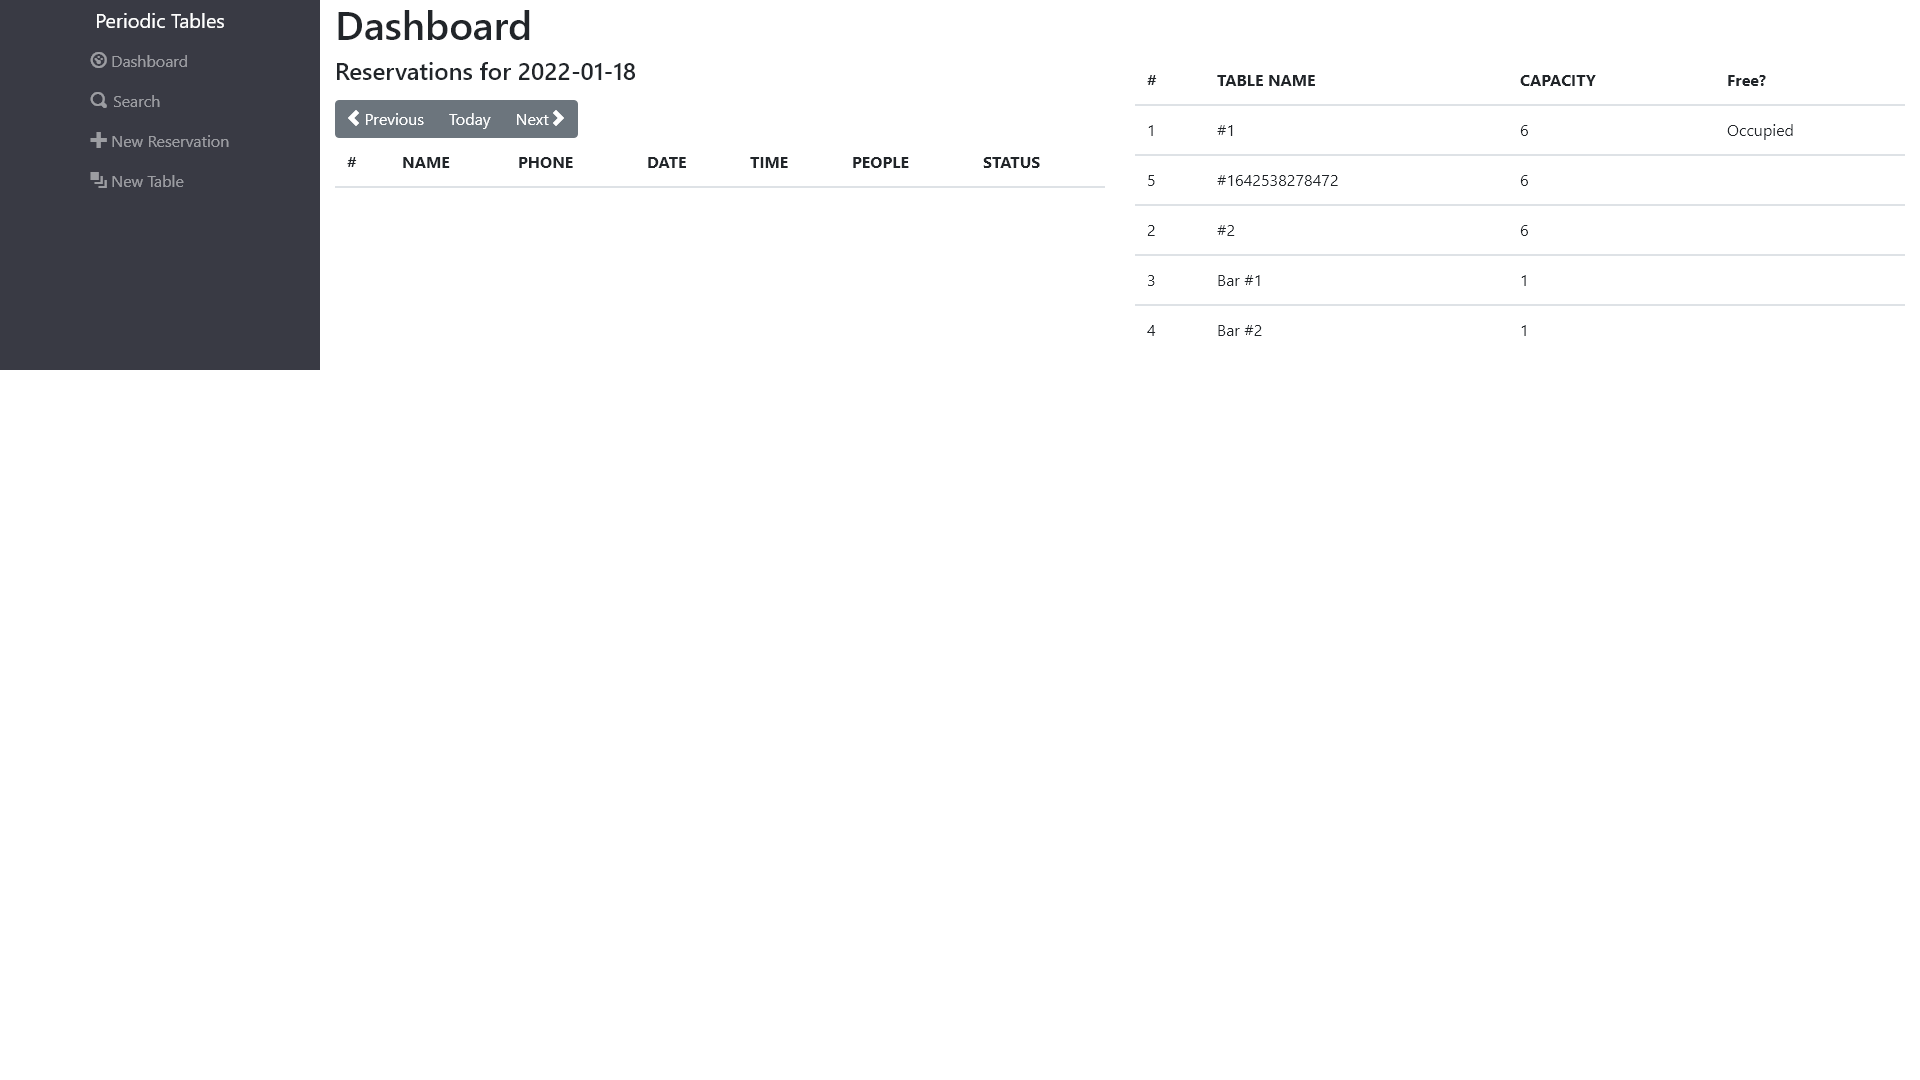
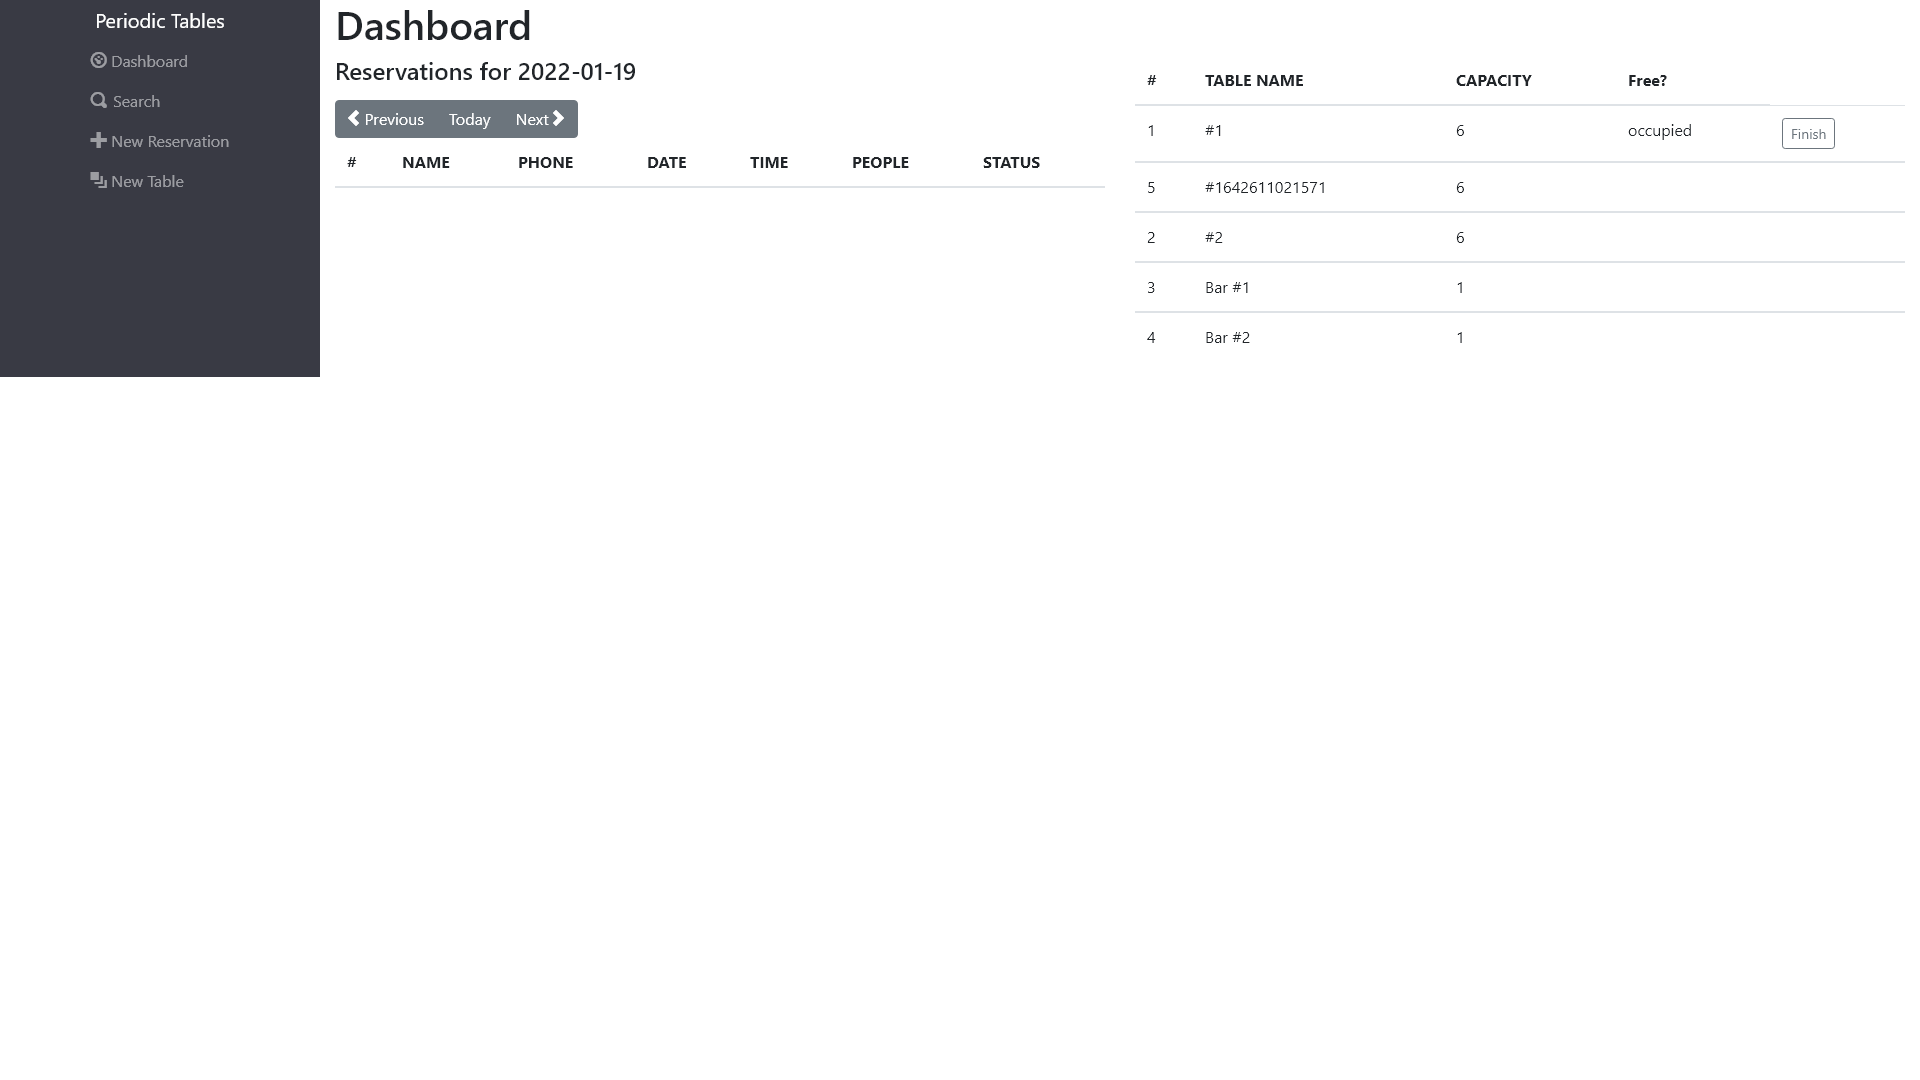
Finish button

diff --git a/front-end/src/dashboard/ReservationsList.js b/front-end/src/dashboard/ReservationsList.js
@@ -4,22 +4,27 @@ import React from "react";
 function ReservationsList({ reservation }) {
     let reservation_id = reservation.reservation_id;
     return (
-        <tbody>
-            <tr>
-                <td>{reservation_id}</td>
-                <td>{reservation.first_name}</td>
-                <td>{reservation.last_name}</td>
-                <td>{reservation.reservation_date}</td>
-                <td>{reservation.reservation_date}</td>
-                <td>{reservation.people}</td>
-                <td data-reservation-id-status="9">{reservation.status}</td>
-                <td><a className="btn btn-secondary" href={`/reservations/${reservation_id}/seat`}>Seat</a></td>
-                <td><a className="btn btn-secondary" href={`/reservations/${reservation_id}/edit`}>Edit</a></td><td>
-                    <button type="button" className="btn btn-secondary mr-2 cancel" data-reservation-id-cancel={reservation_id}>Cancel</button>
-                </td>
-            </tr>
-        </tbody>
-
+        <>
+            {reservation.status === 'finished' ? null :
+                (
+                    <tbody>
+                        <tr>
+                            <td>{reservation_id}</td>
+                            <td>{reservation.first_name}</td>
+                            <td>{reservation.last_name}</td>
+                            <td>{reservation.reservation_date}</td>
+                            <td>{reservation.reservation_date}</td>
+                            <td>{reservation.people}</td>
+                            <td data-reservation-id-status={reservation.id}>{reservation.status == null ? 'booked' : reservation.status}</td>
+                            {reservation.status === 'seated' ? ' ' : <td><a className="btn btn-secondary" href={`/reservations/${reservation_id}/seat`}>Seat</a></td>}
+                            <td><a className="btn btn-secondary" href={`/reservations/${reservation_id}/edit`}>Edit</a></td><td>
+                                <button type="button" className="btn btn-secondary mr-2 cancel" data-reservation-id-cancel={reservation_id}>Cancel</button>
+                            </td>
+                        </tr>
+                    </tbody>
+                )
+            }
+        </>
     )
 }
 

diff --git a/front-end/src/dashboard/TableList.js b/front-end/src/dashboard/TableList.js
@@ -1,18 +1,49 @@
+import React from "react";
+import { useHistory } from "react-router-dom";
+// import FinishBtn from './FinishBtn';
+import { clearSeat, listTables } from "../utils/api";
 
+export default function TablesList({ table, loadDashboard }) {
+  const history = useHistory();
+  let tableId = table.table_id;
 
-export default function TablesList({ table }) {
-   
-    return (
-        <tbody>
-            <tr>
-            <td>{table.table_id}</td>
-                <td>{table.table_name}</td>
-                <td>{table.capacity}</td>
-                <td data-table-id-status="3">{table.status}</td>
-                
-            </tr>
-        </tbody>
-    )
+  async function finishAlert() {
+      console.log("HELLO")
+    if (
+      window.confirm(
+        "Is this table ready to seat new guests?" 
+      )
+    ) {
+        console.log("ABC")
+      await clearSeat(table.table_id)
+      await loadDashboard()
+      console.log("CLICK")
+    //   history.push("/");
+    }
+  }
+
+  let btn = (
+    <button
+      type="button"
+      onClick={finishAlert}
+      className="btn btn-sm btn-outline-secondary"
+      data-table-id-finish={`${table.table_id}`}
+    >
+      Finish
+    </button>
+  );
+
+  return (
+    <tbody>
+      <tr>
+        <td>{table.table_id}</td>
+        <td>{table.table_name}</td>
+        <td>{table.capacity}</td>
+        <td data-table-id-status={`${table.table_id}`}>
+          {table.reservation_id ? "occupied" : "free"}
+        </td>
+        <td> {table.reservation_id ? btn : null} </td>
+      </tr>
+    </tbody>
+  );
 }
-
-

diff --git a/back-end/src/tables/tables.controller.js b/back-end/src/tables/tables.controller.js
@@ -108,6 +108,26 @@ async function checkCapacity(req, res, next) {
   next()
 }
 
+async function checkIfOccupied(req, res, next) {
+  const { status } = res.locals.table;
+  if(status !== 'occupied') {
+    return next({ status: 400, message: `table not occupied`})
+  }
+ next()
+}
+
+
+async function resIsSeated(req, res, next) {
+  const { reservation_id } = req.body.data;
+
+  const reservation = await readRes(reservation_id);
+  if (reservation.status === 'seated') {
+    return next({ status: 400, message: `${reservation_id} already seated.` });
+    
+  }
+  next();
+}
+
 
 async function read(req, res) {
   res.json({ data: res.locals.table })
@@ -137,6 +157,16 @@ async function update(req, res) {
 }
 
 
+async function destroy(req, res) {
+ const { table_id } = res.locals.table;
+ const { reservation_id } = res.locals.table;
+
+  await service.delete({table_id, reservation_id});
+  const data = await service.list();
+  res.json({ data })
+}
+
+
 
 module.exports = {
   list: list,
@@ -154,13 +184,20 @@ module.exports = {
 
   update: [
     hasResId,
-    // hasRequiredProperties,
-    // validateBody,
     asyncErrorBoundary(tableExists),
     asyncErrorBoundary(reservationExists),
     checkAvailability,
+    resIsSeated,
     checkCapacity,
     asyncErrorBoundary(update)
+  ],
+
+  delete: [
+    // hasResId,
+    asyncErrorBoundary(tableExists),
+    checkIfOccupied,
+    // asyncErrorBoundary(reservationExists),
+    destroy
   ]
 
 

diff --git a/back-end/src/tables/tables.service.js b/back-end/src/tables/tables.service.js
@@ -26,11 +26,11 @@ function update({ table_id, reservation_id }) {
       return knex('reservations')
         .transacting(trx)
         .where({ reservation_id: reservation_id })
+        .update({ status: 'seated' })
         .then(() => {
           return knex('tables')
             .where({ table_id: table_id })
             .update({ reservation_id: reservation_id })
-            .update({ status: 'Occupied' })
             .returning('*');
         })
         .then(trx.commit)
@@ -38,9 +38,28 @@ function update({ table_id, reservation_id }) {
     });
   }
 
+  function destroy({ table_id, reservation_id }) {
+    return knex.transaction((trx) => {
+      return knex('reservations')
+        .transacting(trx)
+        .where({ reservation_id: reservation_id })
+        .update({ status: 'finished'})
+        .then(() => {
+          return knex('tables')
+            .where({ table_id: table_id })
+            .update({ reservation_id: null })
+            .returning('*');
+        })
+        .then(trx.commit)
+        .catch(trx.rollback);
+    });
+ }
+ 
+
 module.exports = {
     list,
     read,
     create,
-    update
+    update,
+    delete: destroy,
 }

diff --git a/front-end/e2e/us-05-finish-occupied-table.test.js b/front-end/e2e/us-05-finish-occupied-table.test.js
@@ -61,29 +61,29 @@ describe("US-05 - Finish an occupied table - E2E", () => {
         path: ".screenshots/us-05-dashboard-finish-button-before.png",
         fullPage: true,
       });
-
+      console.log(64);
       const containsOccupied = await containsText(
         page,
         `[data-table-id-status="${table.table_id}"]`,
         "occupied"
       );
-
+      console.log(70);
       expect(containsOccupied).toBe(true);
 
       const finishButtonSelector = `[data-table-id-finish="${table.table_id}"]`;
       await page.waitForSelector(finishButtonSelector);
-
+      console.log(75);
       page.on("dialog", async (dialog) => {
         expect(dialog.message()).toContain(
           "Is this table ready to seat new guests?"
         );
         await dialog.accept();
       });
-
+      console.log(82);
       await page.click(finishButtonSelector);
-
+      console.log(84);
       await page.waitForResponse((response) => {
-        return response.url().endsWith(`/tables`);
+        // return response.url().endsWith(`/tables`);
       });
 
       await page.screenshot({

diff --git a/back-end/src/reservations/reservations.controller.js b/back-end/src/reservations/reservations.controller.js
@@ -118,6 +118,17 @@ async function reservationExists(req, res, next) {
 }
 
 
+async function status(req, res, next){
+  const { reservation_id } = req.params;
+
+  const reservation = await service.read(reservation_id);
+  if  (reservation.status === 'unknown') {
+    return next({ status: 400, message: `${reservation_id} ` });
+  }
+  next();
+
+}
+
 async function read(req, res) {
 res.json({ data: res.locals.reservation })
 }  
@@ -126,7 +137,6 @@ async function list(req, res) {
   let date = req.query.date;
   data = await service.list(date);
   res.json({ data });
-  console.log(data);
 }
 
 async function create(req, res) {
@@ -148,6 +158,9 @@ module.exports = {
   read: [
    reservationExists,
     read
-  ]
+  ],
+  update: [
+    status,
+  ] 
 
 };

diff --git a/front-end/src/utils/api.js b/front-end/src/utils/api.js
@@ -122,5 +122,18 @@ export async function seatReservation(table_id, reservation_id) {
   return await fetchJson(url, options);
 }
 
+export async function clearSeat(table_id, signal) {
+  const url = `${API_BASE_URL}/tables/${table_id}/seat`;
+  const options = {
+    method: "DELETE",
+    headers,
+    body: JSON.stringify({ data: { table_id } }),
+    signal
+  };
+  return await fetchJson(url, options);
+}
+
+
+
 
 

diff --git a/back-end/src/db/migrations/20220116122925_Tables.js b/back-end/src/db/migrations/20220116122925_Tables.js
@@ -4,7 +4,6 @@ exports.up = function (knex) {
         table.increments("table_id").primary().notNullable();
         table.string("table_name").notNullable();
         table.integer("capacity").notNullable();
-        table.string("status");
         table.integer("reservation_id").unsigned();
         table
             .foreign("reservation_id")

diff --git a/front-end/src/dashboard/Dashboard.js b/front-end/src/dashboard/Dashboard.js
@@ -51,7 +51,9 @@ function Dashboard({ date }) {
   const tablesList = () => {
     return tables.map((table) => (
       <TablesList
-        table={table} />
+        table={table}
+        // loadDashboard={loadDashboard}
+        />
     ))
   }
 

diff --git a/front-end/src/layout/TableForm.js b/front-end/src/layout/TableForm.js
@@ -5,7 +5,7 @@ import { useHistory } from "react-router-dom";
 export default function Form({ initialState = {
     table_name: "",
     capacity: "",
-    // status: "Free"
+    status: "free"
 }, handleSubmit
 }) {
 

diff --git a/front-end/src/dashboard/FinishBtn.js b/front-end/src/dashboard/FinishBtn.js
@@ -1,0 +1,22 @@
+import React from 'react';
+
+
+export default function FinishBtn({ table }) {
+
+
+
+
+    
+   
+
+   
+    
+    
+    return (
+     <>
+                   
+       </>       
+    )
+}
+
+

diff --git a/front-end/src/layout/ReservationForm.js b/front-end/src/layout/ReservationForm.js
@@ -9,6 +9,7 @@ export default function Form({ initialState = {
     reservation_date: "",
     reservation_time: "",
     people: "",
+    status: "booked"
 }, handleSubmit
 }) {
 
